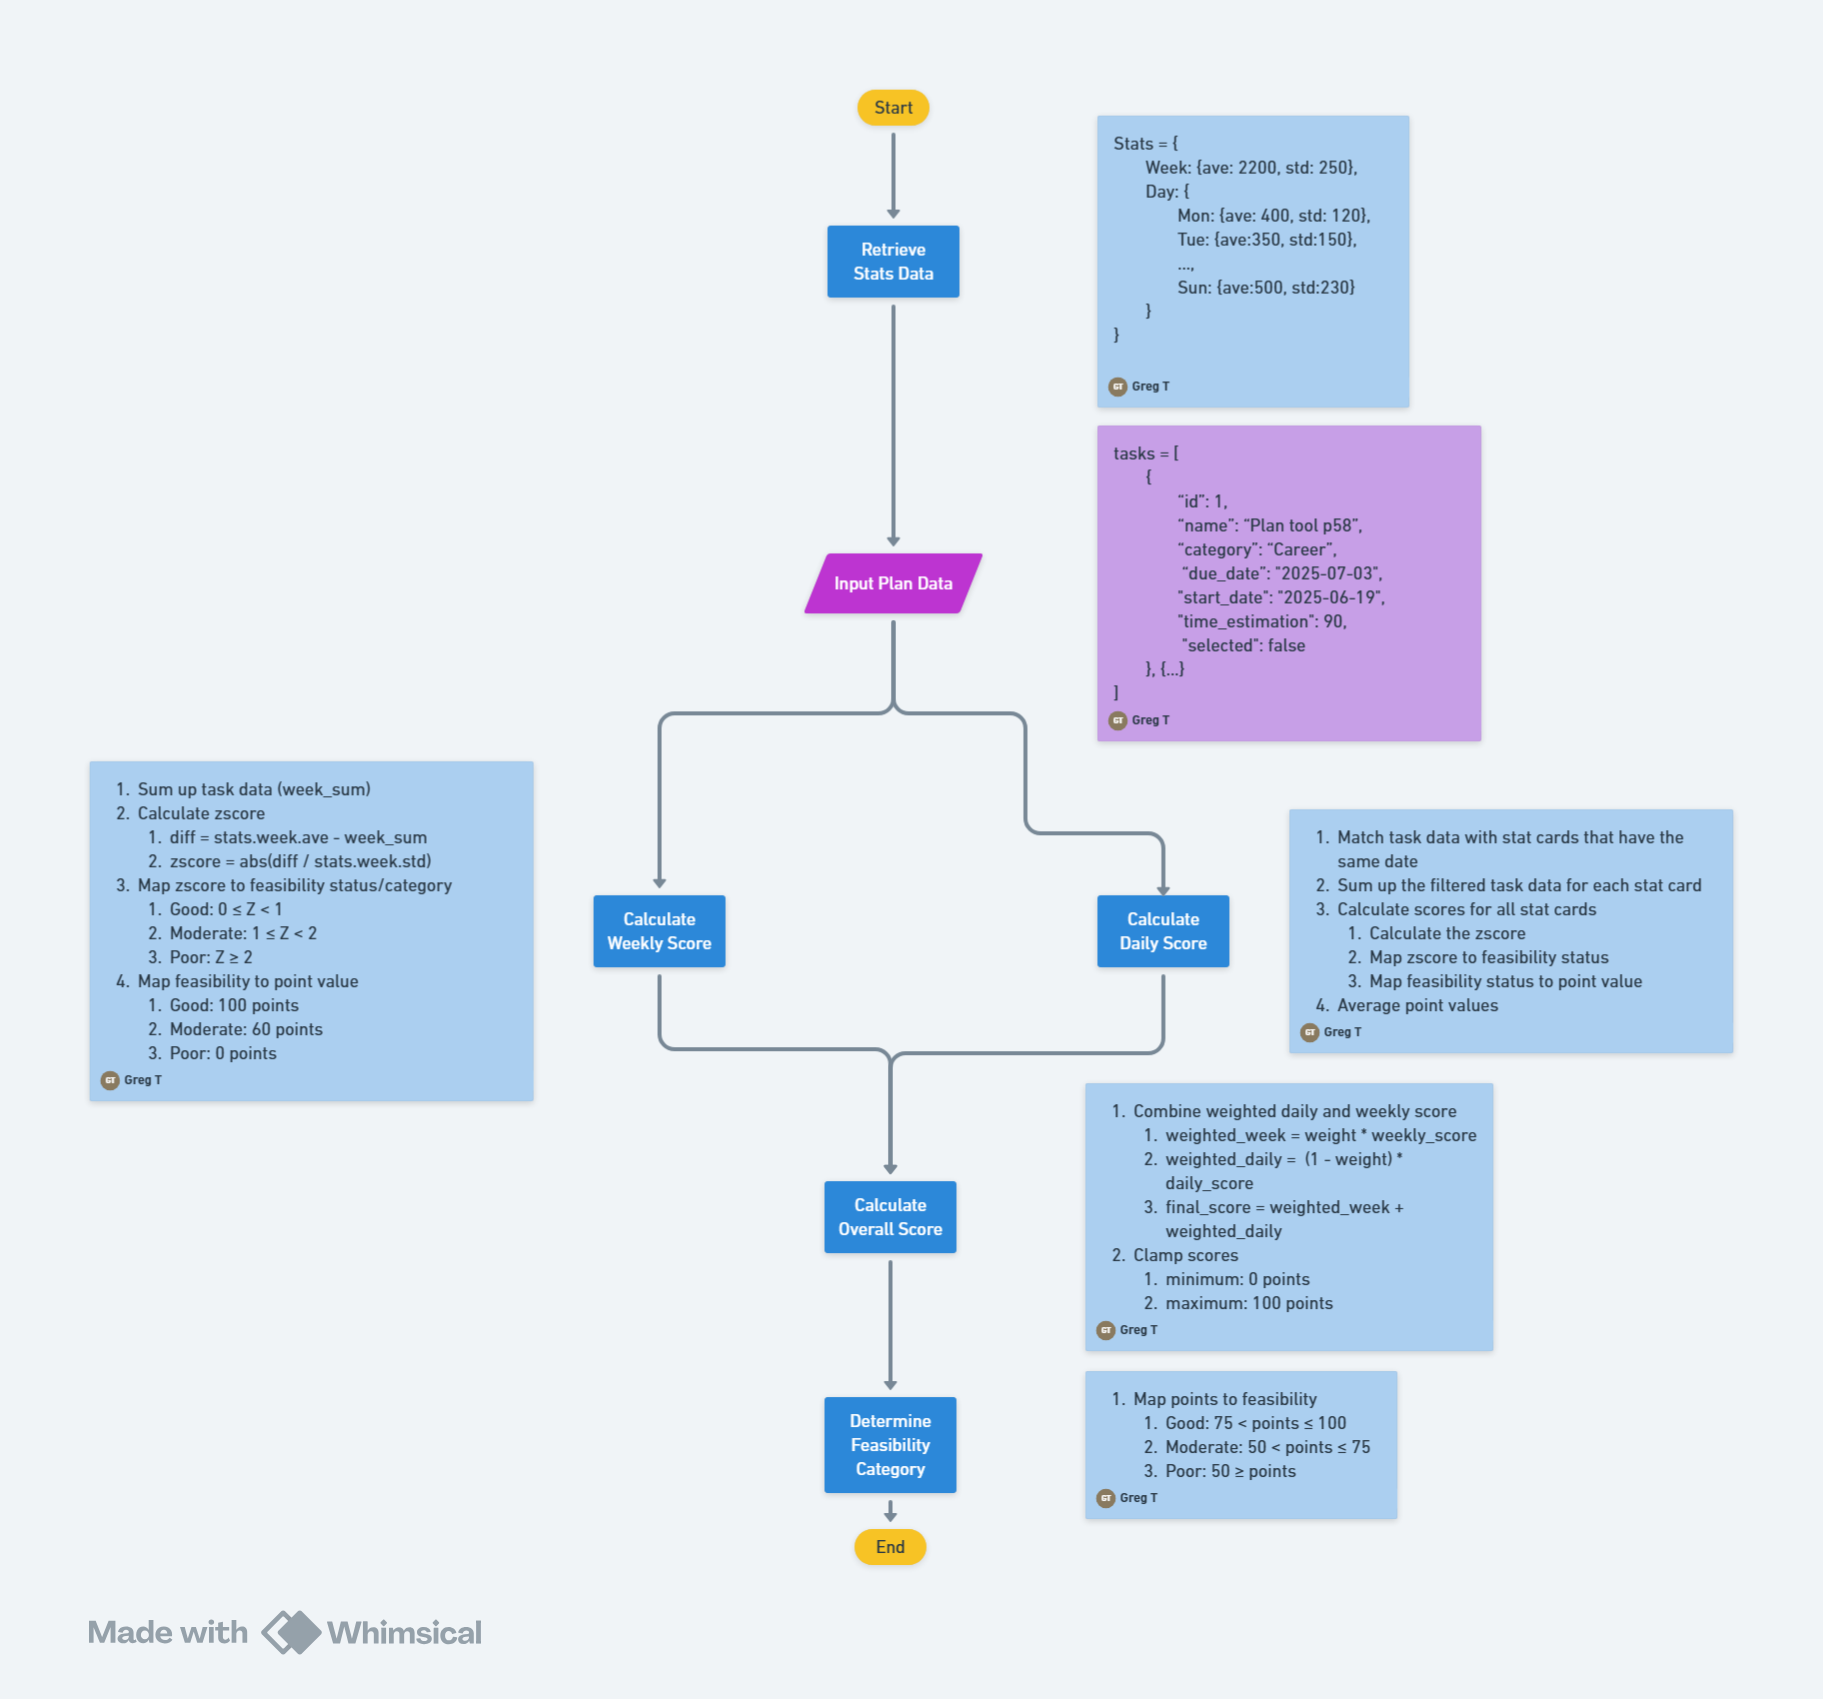
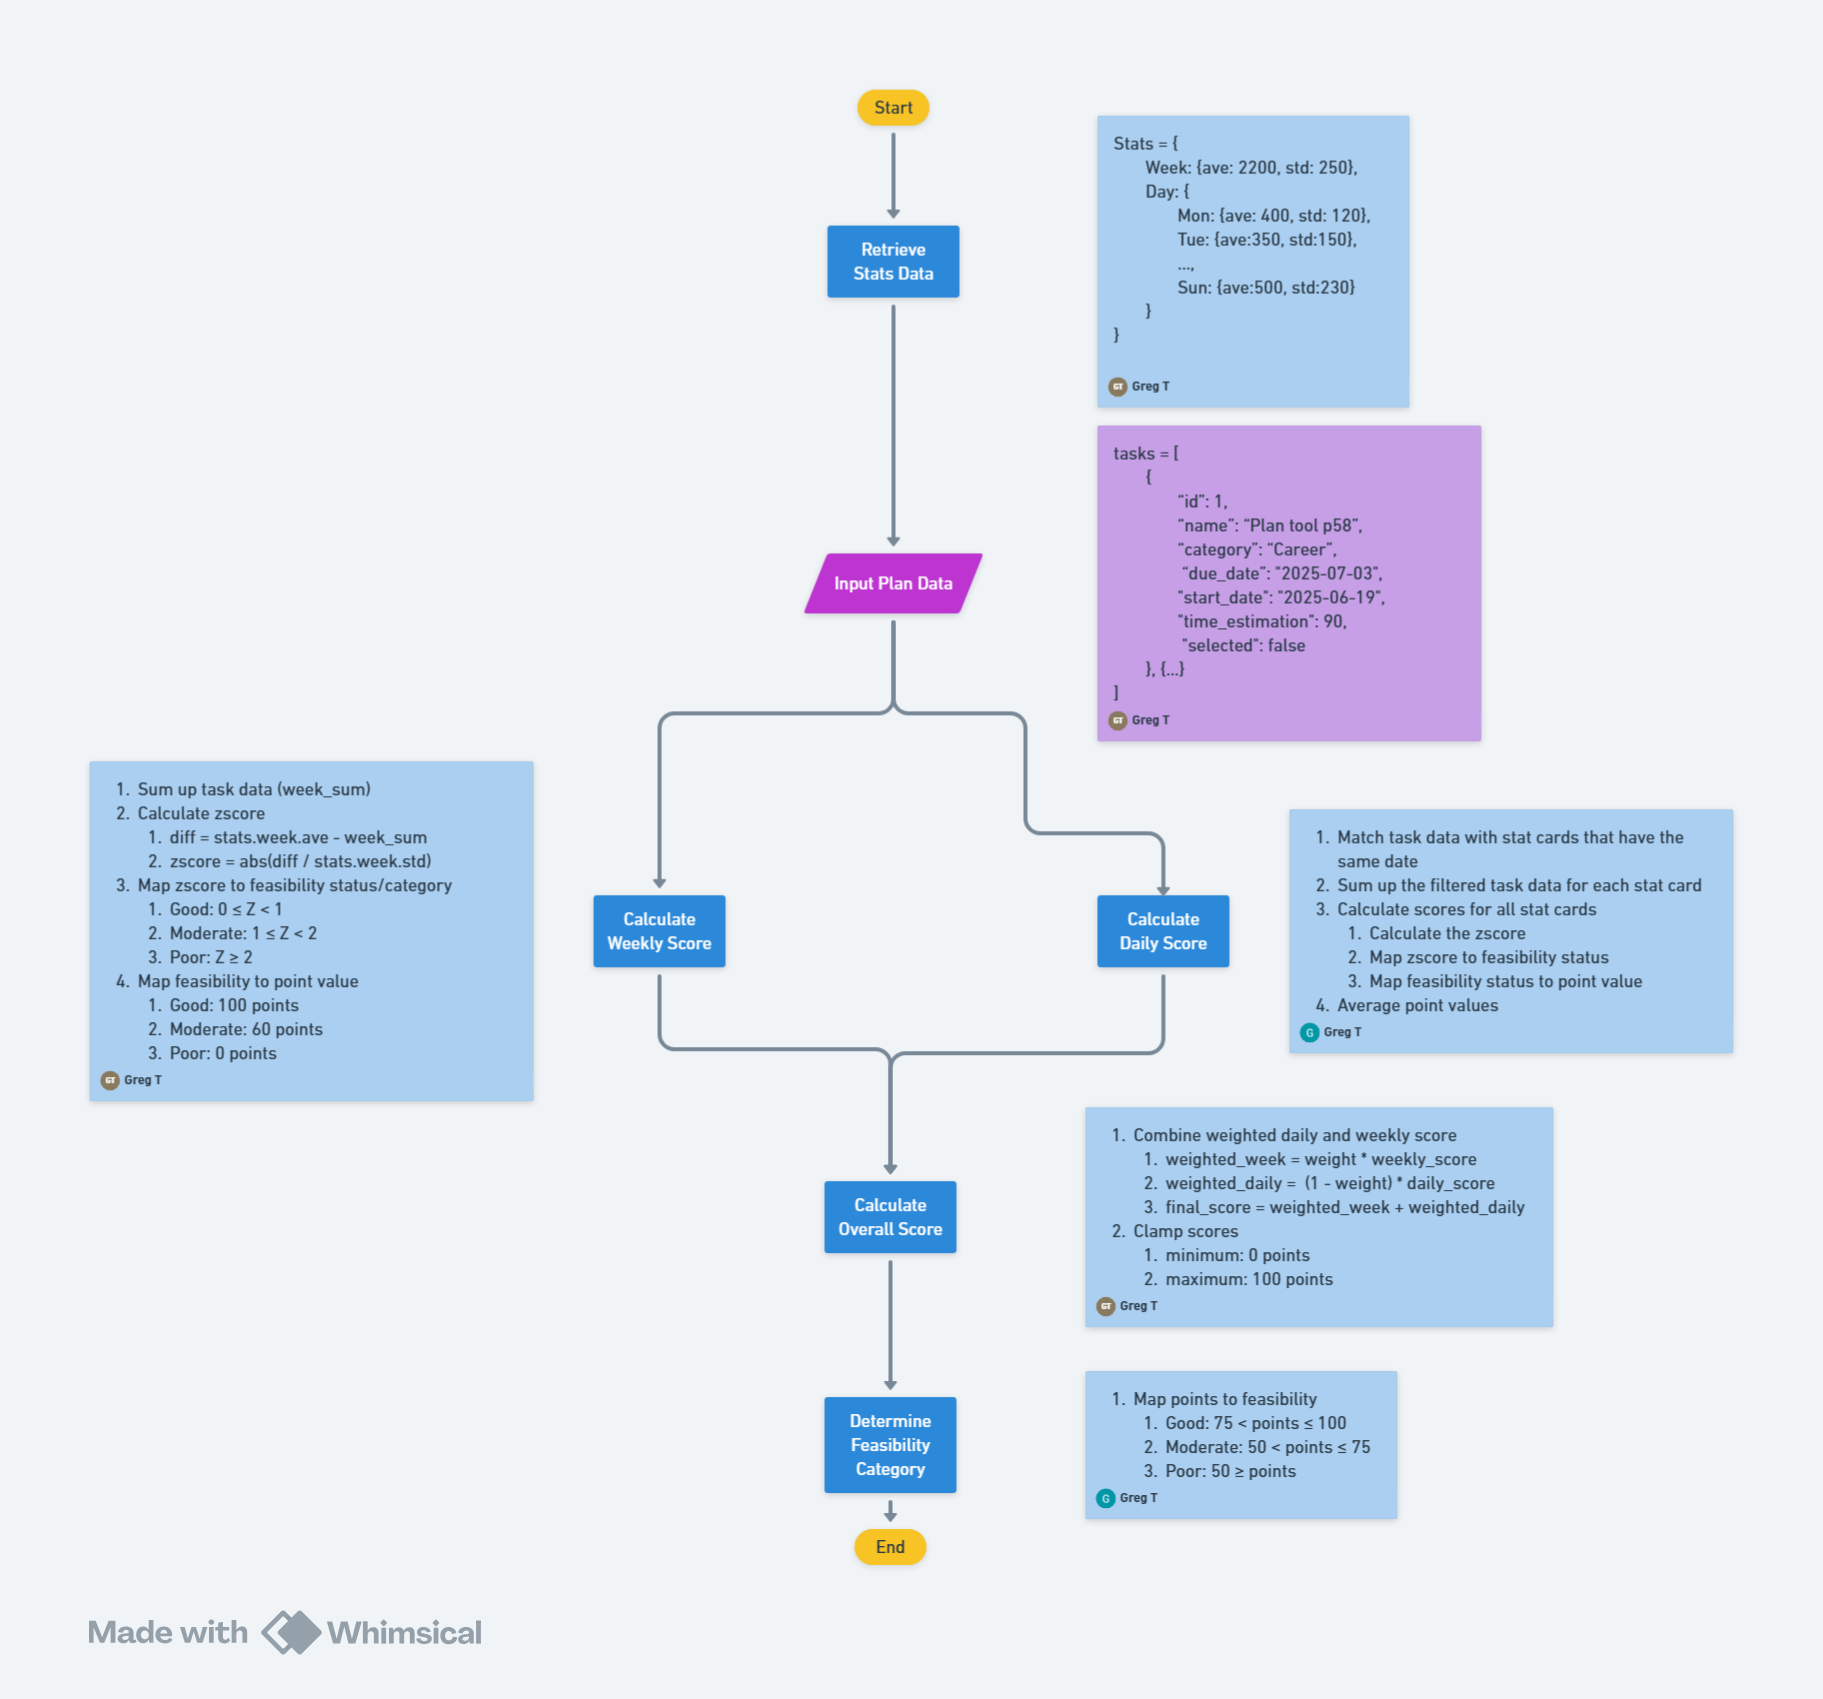
sleightly updated feasibility algo flowchart

Changed region(s): [[0.5837, 0.5927, 0.8601, 0.8111], [0.5837, 0.8735, 0.6144, 0.9046]]

diff --git a/project_management/specs/design.md b/project_management/specs/design.md
@@ -26,7 +26,7 @@ _Description:_ Screenshot of the 5 different stylings the stat cards can have re
 ### Overall Feasibility (R-1.2)
 _Description:_ Flowchart depicting the logic used to evaluate feasibility using the current data in the task table and historical metrics
 
-![feas_algo](https://github.com/user-attachments/assets/718a42a9-9fdd-4643-a058-8a6939f1e1c2)
+![feas_algo](https://github.com/user-attachments/assets/f616c2b1-5d93-4308-99ae-057298af430d)
 
 
 ## R-2. Task Entry Table
